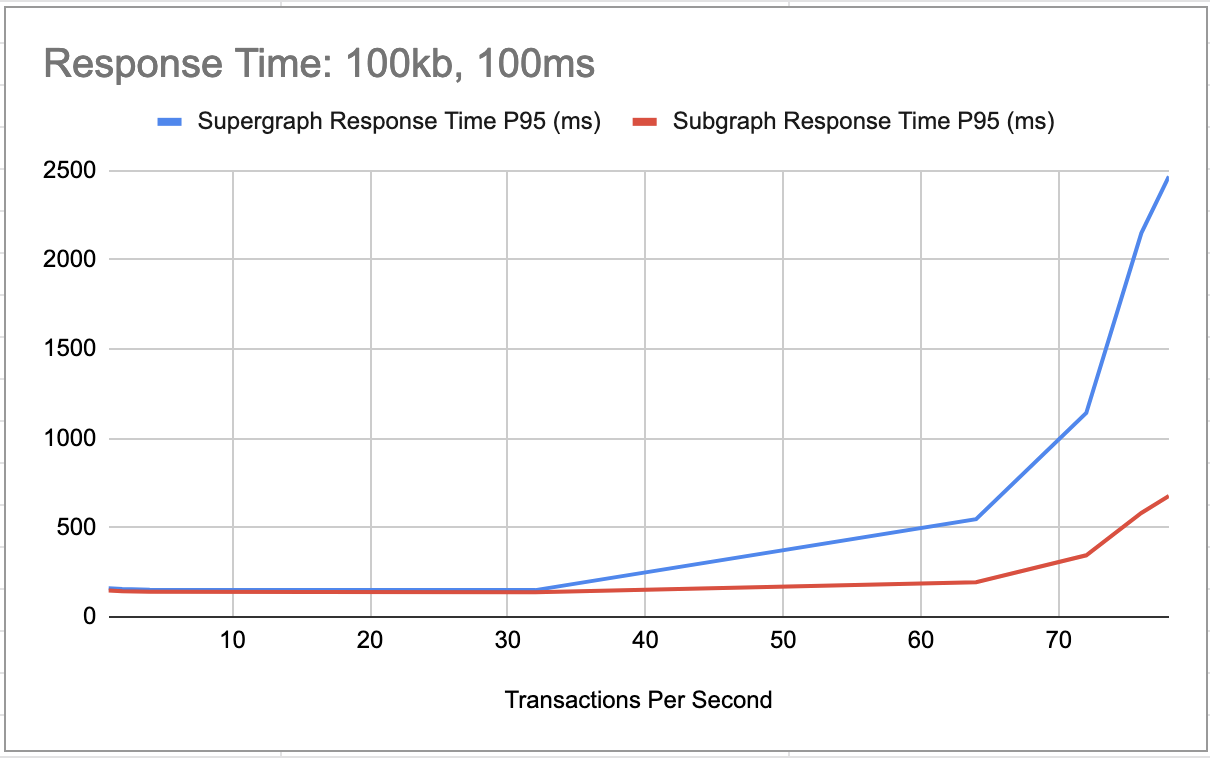
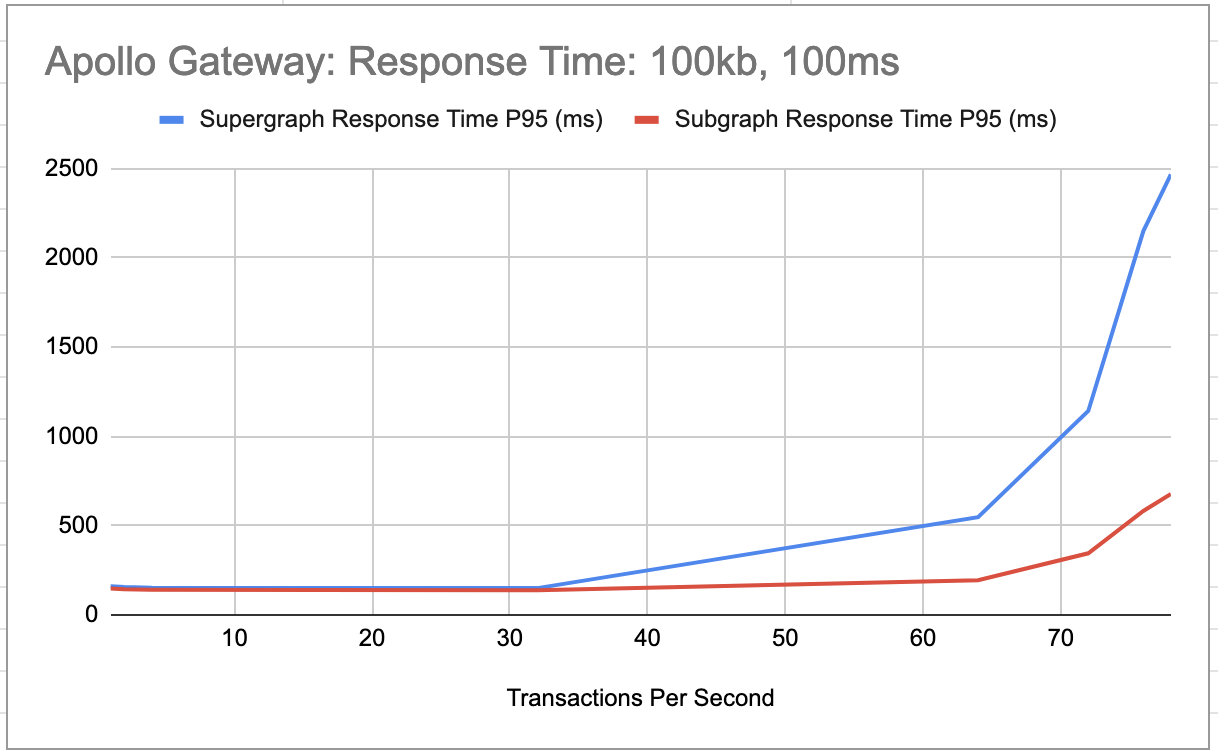
router-report

diff --git a/report/router/apollo-router-100kb.MD b/report/router/apollo-router-100kb.MD
@@ -2,33 +2,40 @@
 
 ## Perf Setup
 * Response Payload = 100kb
+![Router Setup](routersetup.png)
 More details are in this page: [Perf Setup](../perf-test-setup.MD)
 
 ## Synthetic Latency of 100ms
-
+![Router Response Time](./100msLatency/RouterResponseTime100kb100ms.png)
 
 ### Test Result
 ![Response Time](./100msLatency/ResponseTime100kb100ms.png)
 
-| Transactions Per Second | Synthetic Latency | Client Response Time P95 (ms) | Supergraph Response Time P95 (ms) | Subgraph Response Time P95 (ms) | Time spent in Supergraph (ms) | CPU (millicore) | Memory (MB) | Screenshot |
-| --- | --- | --- | --- | --- | --- | --- | --- | --- |
-| 1 | 100 | 159 | 21:54 | 
-| 2 | 100 | 152 | 22:12 | 
-| 4 | 100 | 143 | 22:27 | 
-| 8 | 100 | 142 | 22:41 | 
-| 16 | 100 | 144 | 22:56 |
-| 32 | 100 | 143 | 23:10 |
-| 64 | 100 | 146 | 23:24 |
-| 128 | 100 | 148 | 23:39 |
-| 256 | 100 | 159 | 07:14 |
+| Transactions Per Second  | Test Status | Client Response Time P95 (ms) | API GW Response Time P95 (ms) | Supergraph Response Time P95 (ms) | Subgraph Response Time P95 (ms) | Time spent in Supergraph (ms) | CPU (millicore) | Memory (MB) | Screenshot Time |
+| --- | --- | --- | --- | --- | --- | --- | --- | --- | --- |
+| 1 | Success | 173 | 166 | 154 | 148 | 6 | 6 | 42 | [1tps-time](./100msLatency/1tps-time.png), [1tps-sys](./100msLatency/1tps-sys.png)| 
+| 2 | Success | 168 | 157 | 146 | 140 | 6 | 11 | 42 | [2tps-time](./100msLatency/2tps-time.png), [2tps-sys](./100msLatency/2tps-sys.png)
+| 4 | Success | 164 | 158 | 151 | 145 | 6 | 21 | 47 | [4tps-time](./100msLatency/4tps-time.png), [4tps-sys](./100msLatency/4tps-sys.png)
+| 8 | Success | 158 | 153 | 145 | 139 | 6 | 42 | 47 | [8tps-time](./100msLatency/8tps-time.png), [8tps-sys](./100msLatency/8tps-sys.png)
+| 16 | Success | 807 | 155 | 151 | 145 | 6 | 80 | 48 | [16tps-time](./100msLatency/16tps-time.png), [16tps-sys](./100msLatency/16tps-sys.png)
+| 32 | Success | 277 | 152 | 148 | 142 | 6 | 166 | 48 | [32tps-time](./100msLatency/32tps-time.png), [32tps-sys](./100msLatency/32tps-sys.png)
+| 64 | Success | 152 | 149 | 145 | 139 | 6 | 312 | 47 | [64tps-time](./100msLatency/64tps-time.png), [64tps-sys](./100msLatency/64tps-sys.png)
+| 128 | Success | 152 | 150 | 147 | 140 | 7 | 607 | 58 | [128tps-time](./100msLatency/128tps-time.png), [128tps-sys](./100msLatency/128tps-sys.png)
+| 256 | Failed | - | - | - | - | - | - | - | - |
+| 192 | Success | 159 | 157 | 154 | 146 | 8 | 927 | 54 | [192tps-time](./100msLatency/192tps-time.png), [192tps-sys](./100msLatency/192tps-sys.png)
+| 224 | Failed | - | - | - | - | - | - | - | - |
+| 208 | Failed | - | - | - | - | - | - | - | - |
+| 200 | Success | 157 | 155 | 152 | 144 | 8 | 960 | 55 |[200tps-time](./100msLatency/200tps-time.png), [200tps-sys](./100msLatency/200tps-sys.png)
+| 204 | Success | 157 | 155 | 152 | 143 | 9 | 1000 | 56 |[204tps-time](./100msLatency/204tps-time.png), [204tps-sys](./100msLatency/204tps-sys.png)
 
 
-## Synthetic Latency of 5s
+### One hour test duration
+| Transactions Per Second  | Test Status | Client Response Time P95 (ms) | API GW Response Time P95 (ms) | Supergraph Response Time P95 (ms) | Subgraph Response Time P95 (ms) | Time spent in Supergraph (ms) | CPU (millicore) | Memory (MB) |
+| --- | --- | --- | --- | --- | --- | --- | --- | --- | 
+| 204 |Success|157| 155| 152 | 144| 8 |1000| 56 |
 
-### Test Result
-![Response Time](./5000msLatency/ResponseTime100kb5s.png)
+#### Response Time
+![Router Response Time - 204 TPS - 1 Hour](./100msLatency/204tps-1hr-time.png)
 
-| Transactions Per Second  | Client Response Time P95 (ms) | Supergraph Response Time P95 (ms) | Subgraph Response Time P95 (ms) | Time spent in Supergraph (ms) | CPU (millicore) | Memory (MB) | Screenshot |
-| --- | --- | --- | --- | --- | --- | --- | --- |
-| 256 | failed | 00:57
-| 128 | 47553 | 01:12
+#### System Metrics
+![Router System Metrics - 204 TPS - 1 Hour](./100msLatency/204tps-1hr-sys.png)

diff --git a/report/gateway/apollo-gateway-100kb.MD b/report/gateway/apollo-gateway-100kb.MD
@@ -2,6 +2,8 @@
 
 ## Perf Setup
 * Response Payload = 100kb
+![Gateway Setup](./GatewaySetup.png)
+
 More details are in this page: [Perf Setup](../perf-test-setup.MD)
 
 ## Synthetic Latency of 100ms
